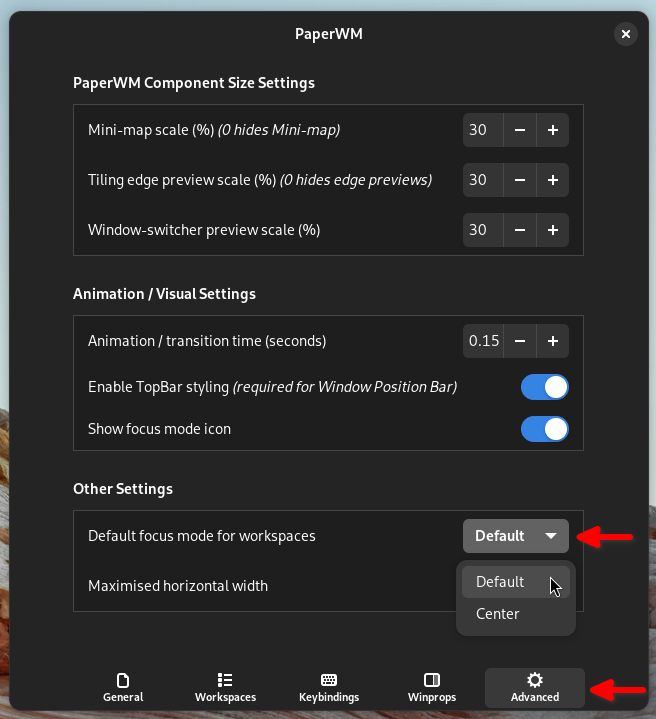
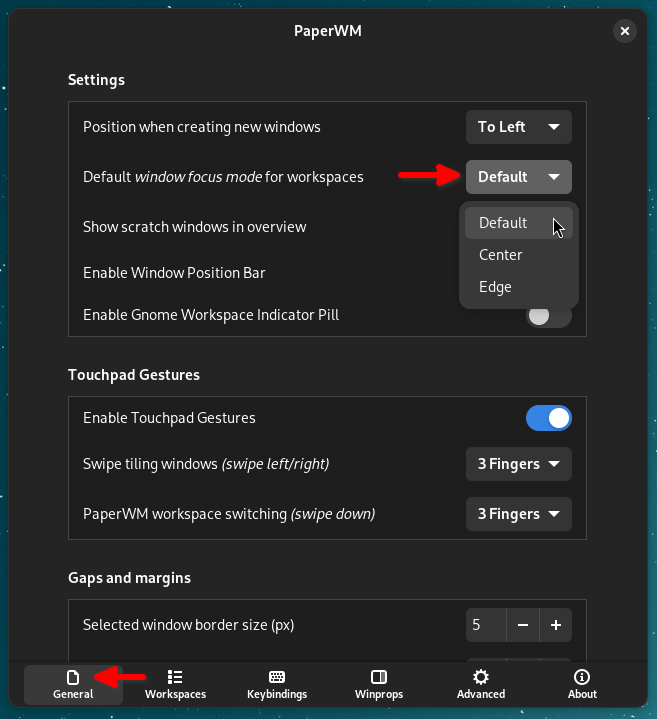
FIX: corrected shown images.

diff --git a/README.md b/README.md
@@ -232,7 +232,7 @@ Focus modes can be toggled by user-settable keybinding (default is `Super`+`Shif
 
 The default focus mode is the standard PaperWM focus mode (i.e. not centered).  This can be changed according to preference by changing the `Default focus mode` setting PaperWM settings.  
 
-<img alt="Default focus mode" src="media/hide-focus-mode-icon.png" width="560px">
+<img alt="Default focus mode" src="media/default-focus-mode.png" width="560px">
 
 _Note: changing this setting during a PaperWM session will set all spaces to the new default focus mode._
 
@@ -240,7 +240,7 @@ _Note: changing this setting during a PaperWM session will set all spaces to the
 
 Users may also prefer to hide the focus mode icon.  You can do so from the `Avanced` tab in PaperWM extension settings:
 
-<img alt="Enable TopBar Styling" src="media/topbar-styling.png" width="560px">
+<img alt="Hiding the focus mode icon" src="media/hide-focus-mode-icon.png" width="560px">
 
 ## Setting window specific properties
 
